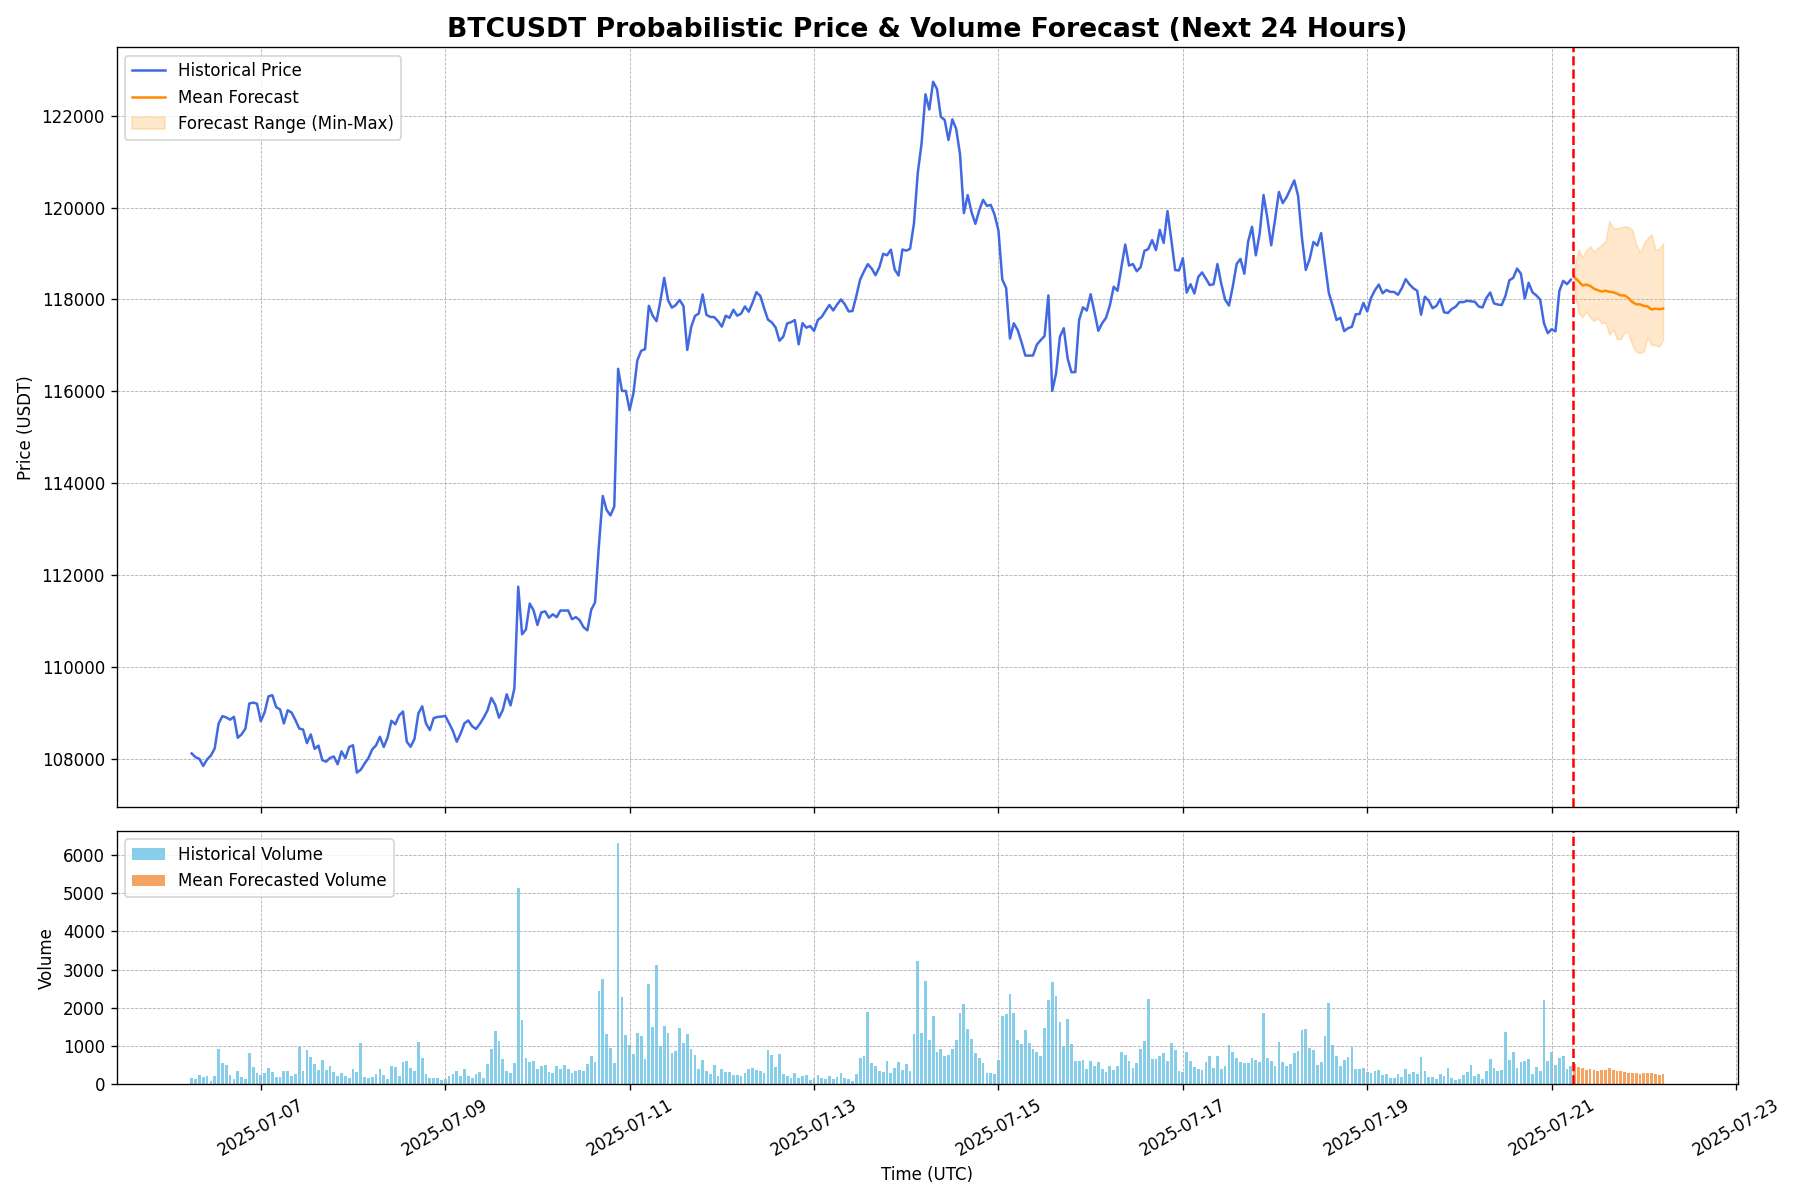
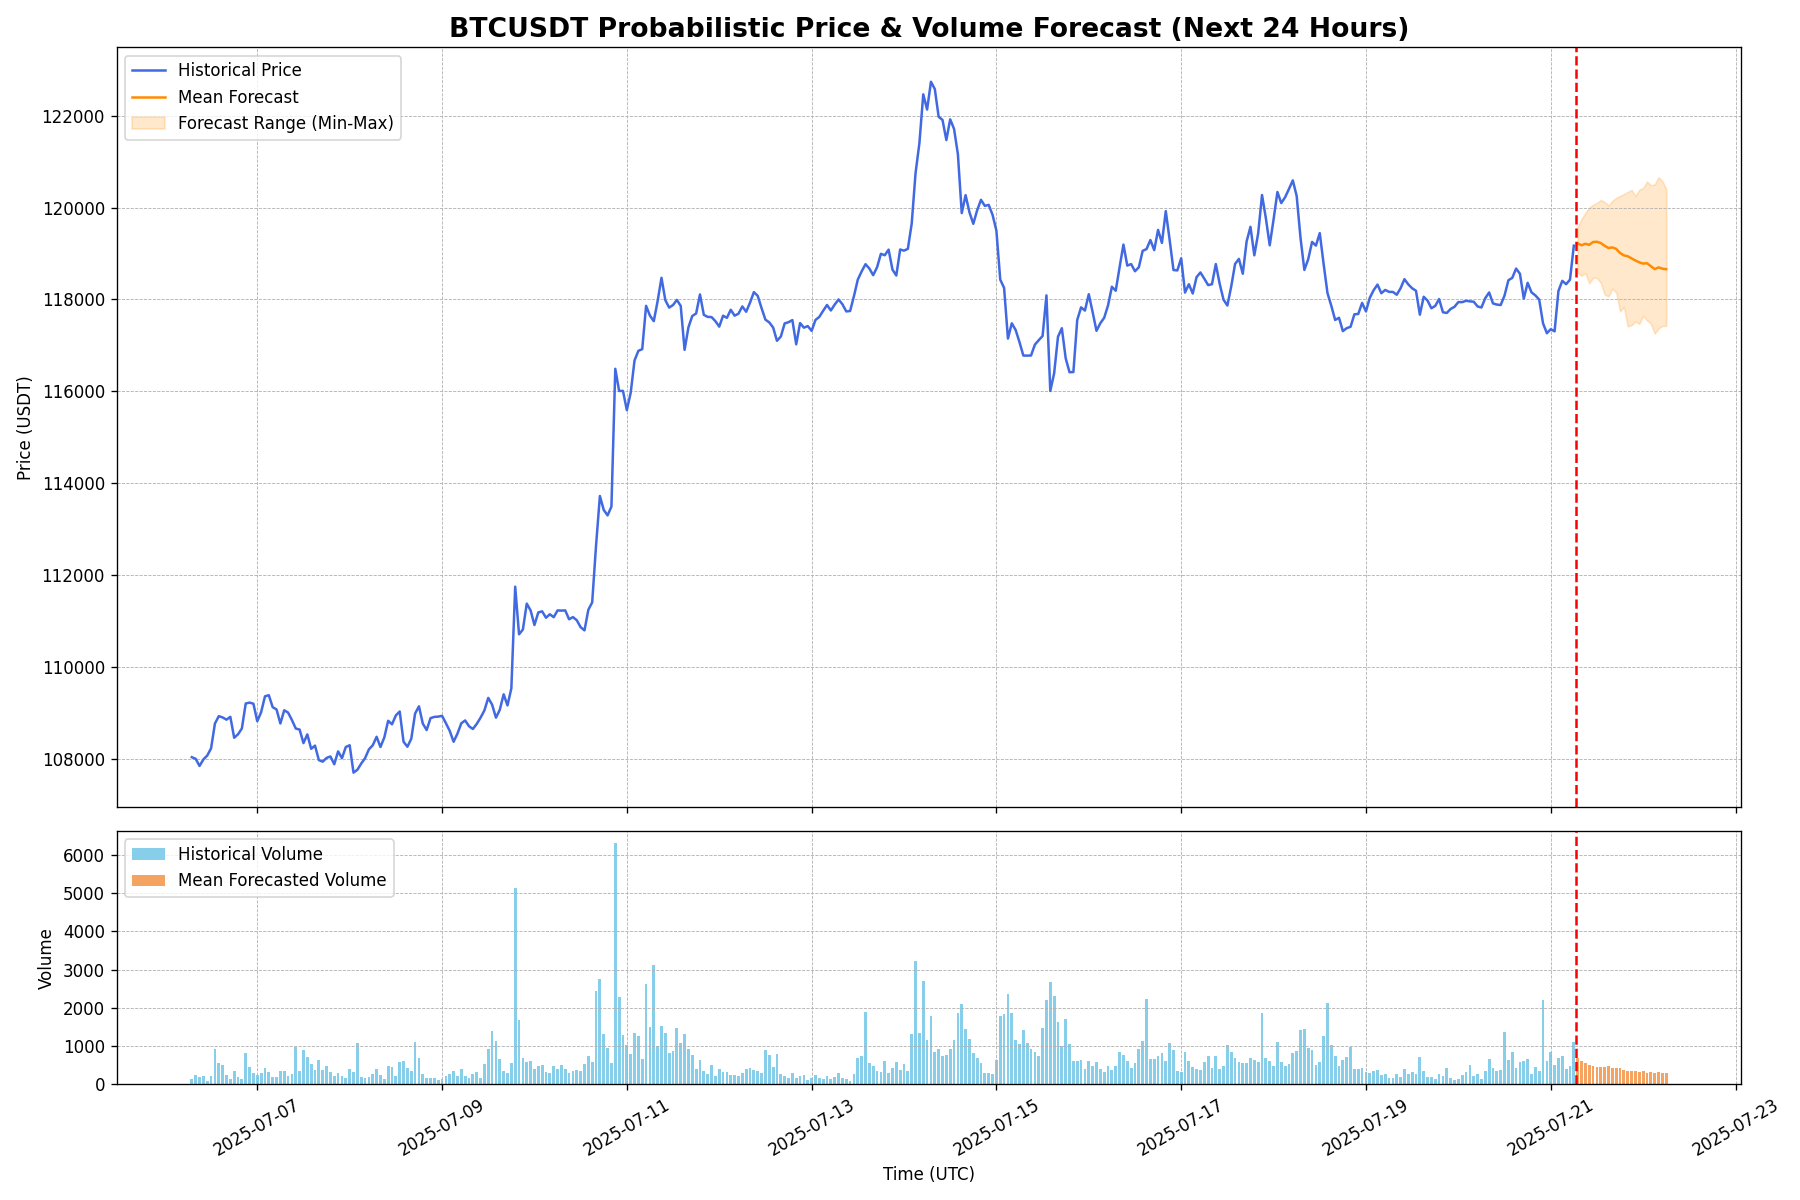
Auto-update forecast for 2025-07-21 07:05 UTC

diff --git a/index.html b/index.html
@@ -22,19 +22,19 @@
         <section id="live-dashboard">
             <h2>Live BTC/USDT Forecast Dashboard</h2>
             <div class="metadata">
-                <span>Last Updated (UTC): <strong id="update-time">2025-07-21 06:05:59</strong></span>
+                <span>Last Updated (UTC): <strong id="update-time">2025-07-21 07:05:56</strong></span>
                 <span>Data Source: Binance | Interval: 1-Hour</span>
             </div>
 
             <div class="metrics-container">
                 <div class="metric-card">
                     <h3>Upside Probability (Next 24h)</h3>
-                    <p class="metric-value" id="upside-prob">16.7%</p>
+                    <p class="metric-value" id="upside-prob">26.7%</p>
                     <div class="metric-desc">The model's confidence that the price in 24 hours will be higher than the last known price.</div>
                 </div>
                 <div class="metric-card">
                     <h3>Volatility Amplification (Next 24h)</h3>
-                    <p class="metric-value" id="vol-amp-prob">30.0%</p>
+                    <p class="metric-value" id="vol-amp-prob">13.3%</p>
                     <div class="metric-desc">The probability that predicted volatility over the next 24h will exceed recent historical volatility.</div>
                 </div>
             </div>
